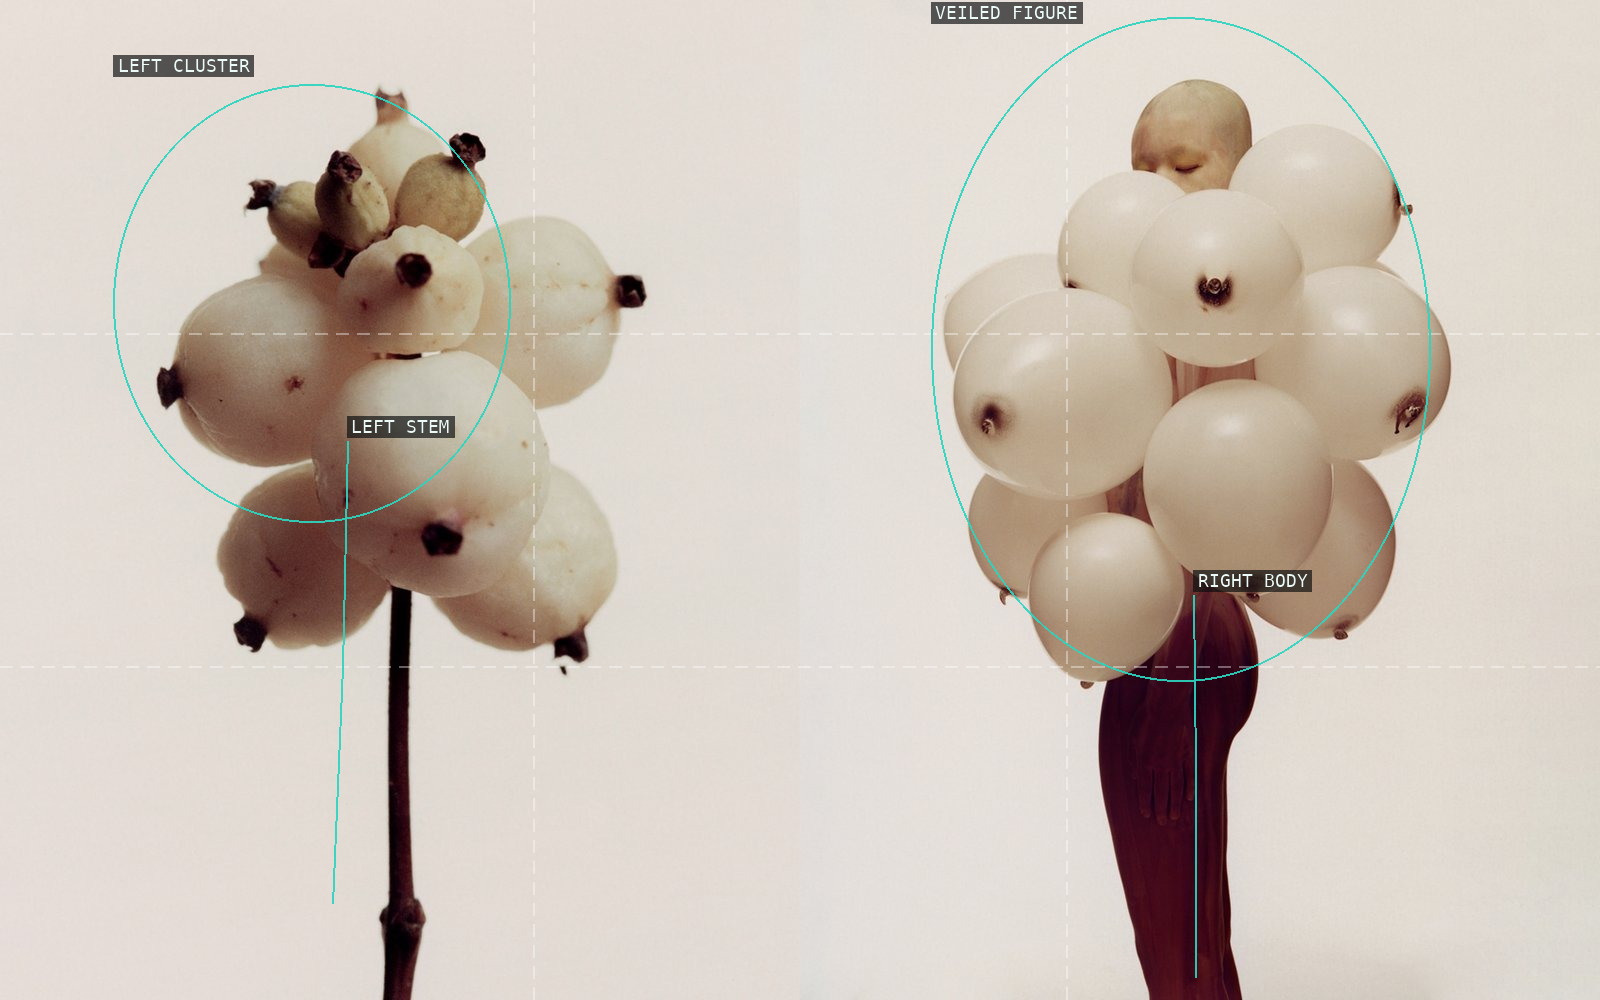
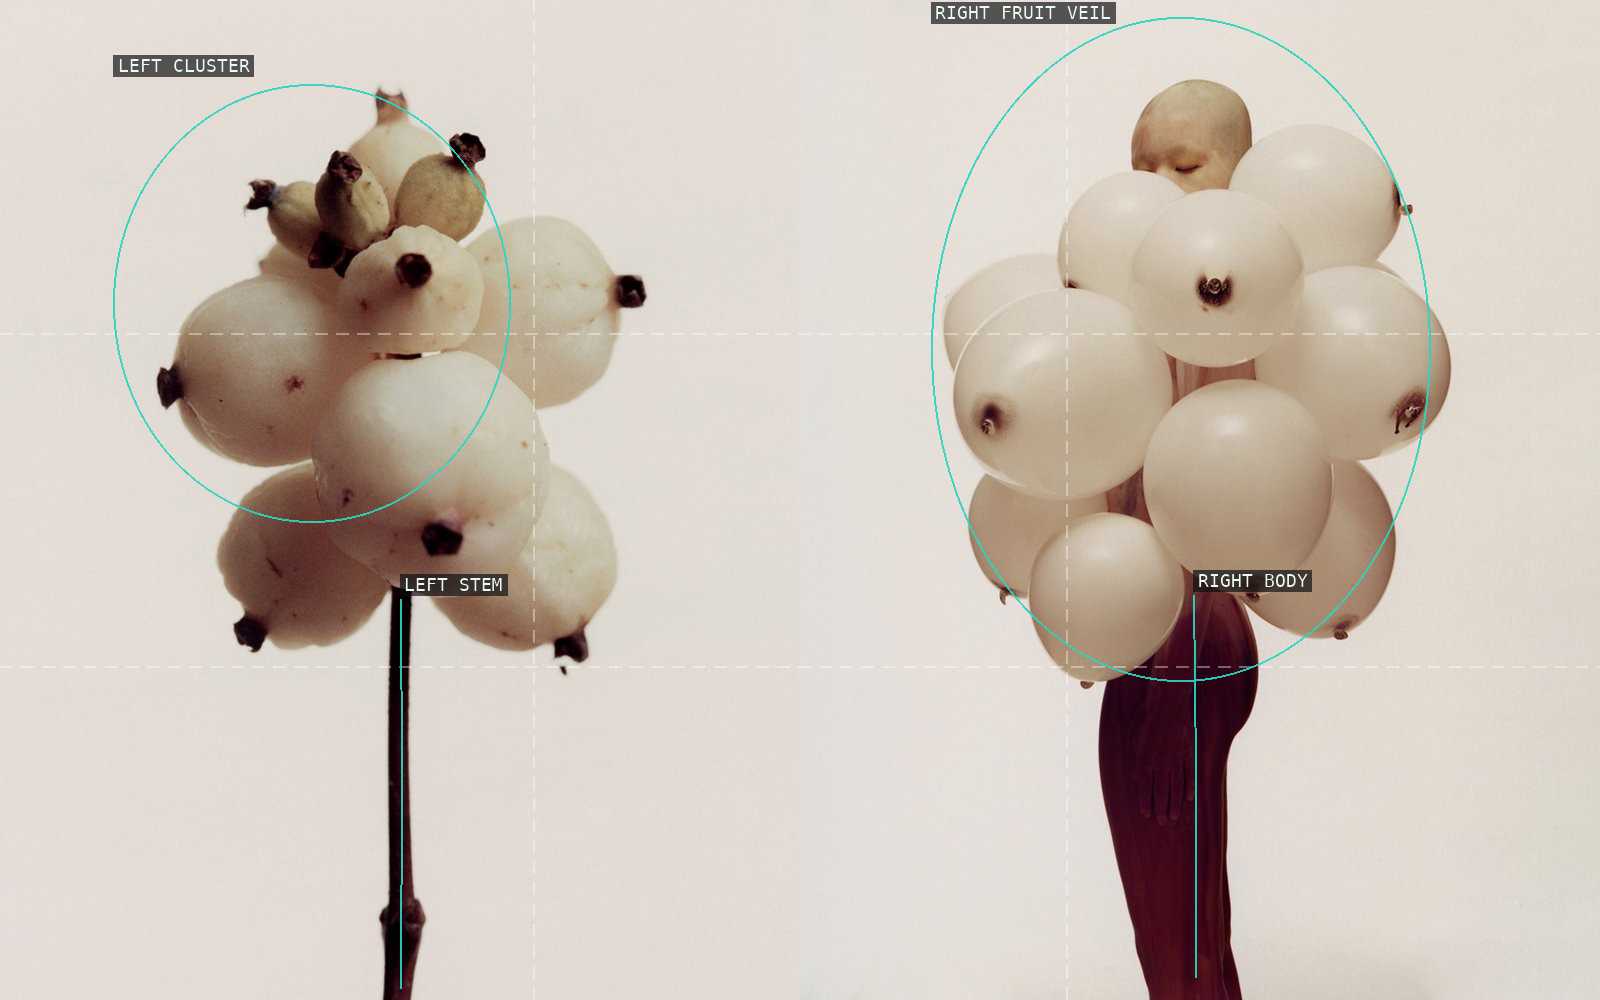
resolve critique: cho-gi-seok

Changed region(s): [[0.5938, 0.0, 0.7188, 0.031], [0.25, 0.558, 0.3125, 0.62], [0.2188, 0.403, 0.2812, 0.465]]

diff --git a/content/cho-gi-seok/critique.md b/content/cho-gi-seok/critique.md
@@ -1,4 +1,4 @@
-verdict: revise
+verdict: resolved
 
 ## Critique round — 2026-08-01
 
@@ -52,3 +52,20 @@ overlay/prose defects remain material.
   petals, and `OPEN INTERVAL` begins/ends inside the adjacent subjects rather
   than entirely in the white gap. Both still read as the intended features.
 
+## Builder resolution — 2026-08-01
+
+Resolved all five required items from the 2026-08-01 critique round.
+
+1. `01-love-these-days-2022` now traces the visible stem from both nose
+   ornaments and uses a multi-point `WIRE-FRAME HEART OUTLINE` that includes
+   the wire form's lower point; its plate prose now describes the perimeter.
+2. `04-flower-study-2021-a` removes the symmetry-axis claim and rewrites the
+   caption/prose as an unequal counterweight across white ground. The anchor
+   is truthfully relabelled `SPOTTED MASK` for the marked feature.
+3. `06-flower-study-9-2020` places `LEFT STEM` at the exposed dark support
+   and relabels the bounded ellipse `RIGHT FRUIT VEIL`, leaving the full body
+   claim to the separate vertical support.
+
+Re-verified full critique history: 2026-08-01 initial critique round (the only
+prior round). All six current overlays score 100/100, and the revised proofs
+received a clean visual pass.
